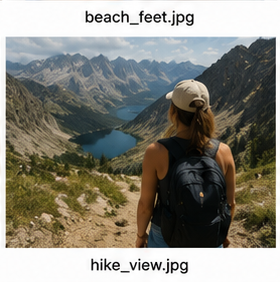
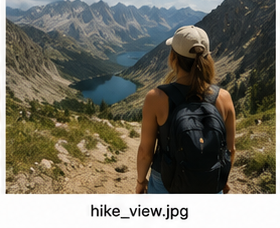
Demo: clean feed photos, adjustable swarm count, drop eyebrow
- Instagrim uses clean beach/concert photos; cropped the filename-label
  strip off the Fakebook photos
- Swarm count is an adjustable "#" input (default 4, capped by fit)
- Removed "DEMO LANDING PAGE" eyebrow from the hero

diff --git a/demo/sites.html b/demo/sites.html
@@ -5,8 +5,8 @@
     <meta name="viewport" content="width=device-width, initial-scale=1">
     <title>AntiDoom — Live on your feeds</title>
     <!-- The REAL extension styles, so the demo matches production exactly -->
-    <link rel="stylesheet" href="ad-styles.css?v=20">
-    <link rel="stylesheet" href="sites.css?v=20">
+    <link rel="stylesheet" href="ad-styles.css?v=22">
+    <link rel="stylesheet" href="sites.css?v=22">
   </head>
   <body>
     <!-- Control bar (hide it for clean screenshots) -->
@@ -25,6 +25,7 @@
       </label>
       <button class="ctrl-btn ctrl-primary" id="dropAd">Drop ad</button>
       <button class="ctrl-btn" id="swarm">Swarm</button>
+      <label class="ctrl-num"># <input type="number" id="swarmCount" min="1" max="6" value="4"></label>
       <button class="ctrl-btn" id="overlayGhost">Ghost text</button>
       <button class="ctrl-btn" id="overlayFlip">Flip card</button>
       <button class="ctrl-btn" id="overlayWavy">WordArt</button>
@@ -36,6 +37,6 @@
     <!-- Mock website feed goes here -->
     <div class="site" id="site"></div>
 
-    <script src="sites.js?v=20"></script>
+    <script src="sites.js?v=22"></script>
   </body>
 </html>

diff --git a/demo/index.html b/demo/index.html
@@ -4,13 +4,12 @@
     <meta charset="utf-8">
     <meta name="viewport" content="width=device-width, initial-scale=1">
     <title>AntiDoom Demo</title>
-    <link rel="stylesheet" href="ad-styles.css?v=19">
-    <link rel="stylesheet" href="demo.css?v=19">
+    <link rel="stylesheet" href="ad-styles.css?v=22">
+    <link rel="stylesheet" href="demo.css?v=22">
   </head>
   <body>
     <main class="demo-shell">
       <section class="hero">
-        <p class="eyebrow">Demo Landing Page</p>
         <h1 class="logo" aria-label="AntiDoom">AntiDoom</h1>
         <p class="lede">A showroom full of obnoxious fake ads that are weirdly on your side.</p>
         <div class="hero-actions">
@@ -62,6 +61,6 @@
       </div>
     </section>
 
-    <script src="demo.js?v=19"></script>
+    <script src="demo.js?v=22"></script>
   </body>
 </html>

diff --git a/demo/sites.js b/demo/sites.js
@@ -340,7 +340,8 @@ document.getElementById("swarm").addEventListener("click", () => {
   const adPool = shuffle([SITE_ADS[currentSite], ...GENERAL_ADS]);
   // Grid has 6 cells; cap the burst by cells, ads, and (in random mode) styles.
   const cap = Math.min(6, adPool.length, sel === "random" ? STYLES.length : 6);
-  const count = Math.min(cap, SWARM_COUNT); // fixed target (capped by what fits)
+  const wanted = parseInt(document.getElementById("swarmCount").value, 10) || SWARM_COUNT;
+  const count = Math.min(cap, Math.max(1, wanted)); // capped by what fits
   // Unique styles in random mode; the chosen style repeated otherwise.
   const styles = sel === "random" ? shuffle(STYLES).slice(0, count) : Array(count).fill(sel);
   const positions = spreadPositions(count);

diff --git a/demo/sites.css b/demo/sites.css
@@ -39,6 +39,8 @@ body {
 .ctrl-store { margin-left: auto; background: #22c55e; border-color: #16a34a; color: #08210f; text-decoration: none; font-weight: 700; }
 .ctrl-store:hover { background: #1eb455; }
 .ctrl-menu { text-decoration: none; }
+.ctrl-num { display: inline-flex; align-items: center; gap: 5px; color: #fff; font-size: 13px; }
+.ctrl-num input { width: 46px; padding: 5px 6px; border-radius: 6px; border: 1px solid #3a3a4a; background: #23232f; color: #fff; font: inherit; }
 
 /* Demo affordance: ad popups can be dragged around */
 .antidoom-root { cursor: grab; }
